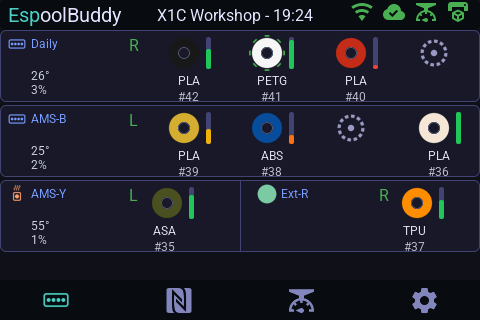
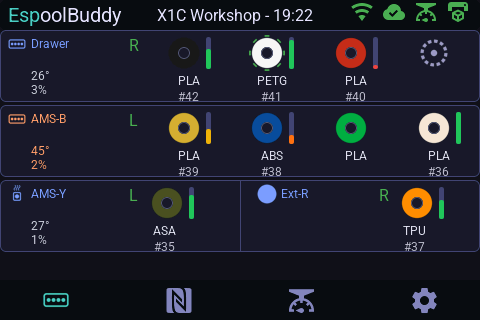
Show AMS heating state (#44)
* Show AMS heating state

* extend charset to Latin-1

diff --git a/host/bambuddy_api_mock.cpp b/host/bambuddy_api_mock.cpp
@@ -64,6 +64,20 @@ AMSTray demo_tray(int slot, const DemoSpool *s) {
   return t;
 }
 
+// A spool the AMS reports (material/colour/temps from its RFID tag or the
+// slicer) that isn't in the Bambuddy inventory: present, but spool_id 0 and
+// none of the inventory-enriched fields.
+AMSTray demo_untracked_tray(int slot, const char *material, const char *color_hex) {
+  AMSTray t;
+  t.slot = slot;
+  t.present = true;
+  t.material_type = material;
+  t.color_hex = color_hex;
+  t.nozzle_temp_min = 190;
+  t.nozzle_temp_max = 230;
+  return t;
+}
+
 AMSUnit demo_unit(int id, const char *name, int humidity, float temp, int nozzle) {
   AMSUnit u;
   u.id = id;
@@ -85,13 +99,14 @@ void fill_demo_ams(int printer_idx, DisplayState &ds) {
     ds.dual_nozzle = true;
     ds.tray_now = 1;
     AMSUnit a = demo_unit(0, "AMS A", 3, 26.5f, 0);
-    a.custom_name = "Daily";
+    a.custom_name = "Drawer";
     a.trays = {demo_tray(0, find_demo_spool(42)), demo_tray(1, find_demo_spool(41)),
                demo_tray(2, find_demo_spool(40)), demo_tray(3, nullptr)};
-    AMSUnit b = demo_unit(1, "AMS B", 2, 25.0f, 1);
+    AMSUnit b = demo_unit(1, "AMS B", 2, 45.0f, 1);
+    b.drying = true;  // shows the drying tint on the icon, name and temp/humidity
     b.trays = {demo_tray(0, find_demo_spool(39)), demo_tray(1, find_demo_spool(38)),
-               demo_tray(2, nullptr), demo_tray(3, find_demo_spool(36))};
-    AMSUnit ht = demo_unit(128, "AMS HT", 1, 55.0f, 1);
+               demo_untracked_tray(2, "PLA", "00AE42"), demo_tray(3, find_demo_spool(36))};
+    AMSUnit ht = demo_unit(128, "AMS HT", 1, 27.0f, 1);
     ht.is_ht = true;
     ht.trays = {demo_tray(0, find_demo_spool(35))};
     AMSUnit vt = demo_unit(255, "Ext", 0, 0.0f, 0);

diff --git a/components/bambuddy_api/bambuddy_api.cpp b/components/bambuddy_api/bambuddy_api.cpp
@@ -3439,6 +3439,17 @@ void BambuddyAPIComponent::parse_ams_data(const std::string &json,
     unit.id = parse_json_int(uobj, "id", 0);
     unit.temp = parse_json_float(uobj, "temp", 0.0f);
     unit.humidity = parse_json_int(uobj, "humidity", 0);
+    // Drying: dry_time is minutes remaining (>0 = timer set). Bambuddy flags
+    // dry_countdown_stalled when a timer is set but not ticking (never
+    // started / paused), which must not count as drying. dry_status (bits of
+    // the firmware info word) is only filled on Bambuddy's websocket, not on
+    // this REST payload, so it is still honoured but usually reads 0.
+    {
+      int dry_status = parse_json_int(uobj, "dry_status", 0);
+      unit.drying = !parse_json_bool(uobj, "dry_countdown_stalled", false) &&
+                    (parse_json_int(uobj, "dry_time", 0) > 0 ||
+                     (dry_status >= 1 && dry_status <= 3));  // Checking/Drying/Cooling
+    }
     // Nozzle assignment is NOT in the per-unit JSON object; it comes from the
     // top-level ams_extruder_map dict parsed in api_get_ams() after this call.
     // Default to -1 (unknown); api_get_ams() will overwrite it.

diff --git a/components/bambuddy_api/bambuddy_api.h b/components/bambuddy_api/bambuddy_api.h
@@ -251,6 +251,7 @@ struct AMSUnit {
   int nozzle{-1};         // -1 unknown, 0 = right (R), 1 = left (L)
   bool is_ht{false};      // true for the single-slot AMS HT (high-temp) dryer
   bool is_vt{false};      // true for an external vt_tray slot (single-spool bypass)
+  bool drying{false};     // a drying cycle is running (dry_time > 0, countdown not stalled)
   std::vector<AMSTray> trays;
 };
 

diff --git a/docs/usage.md b/docs/usage.md
@@ -95,7 +95,9 @@ Panda Touch shows the same screens at 800×480.
 - **AMS / printer status**: the console's AMS tab shows live slot/filament
   state polled from Bambuddy, along with each AMS unit's temperature,
   humidity, and its custom name if one was set in Bambuddy (falls back to a
-  default label otherwise). The currently selected printer's name also
+  default label otherwise). The unit's icon, name, temperature and humidity turn
+  orange while it is running a drying cycle. The currently selected
+  printer's name also
   shows in the header next to the clock; it only scrolls if the text is too
   long to fit, otherwise it just sits centered. Tap a slot to see its
   spool's details (brand, material, colour, temperatures, remaining weight)
